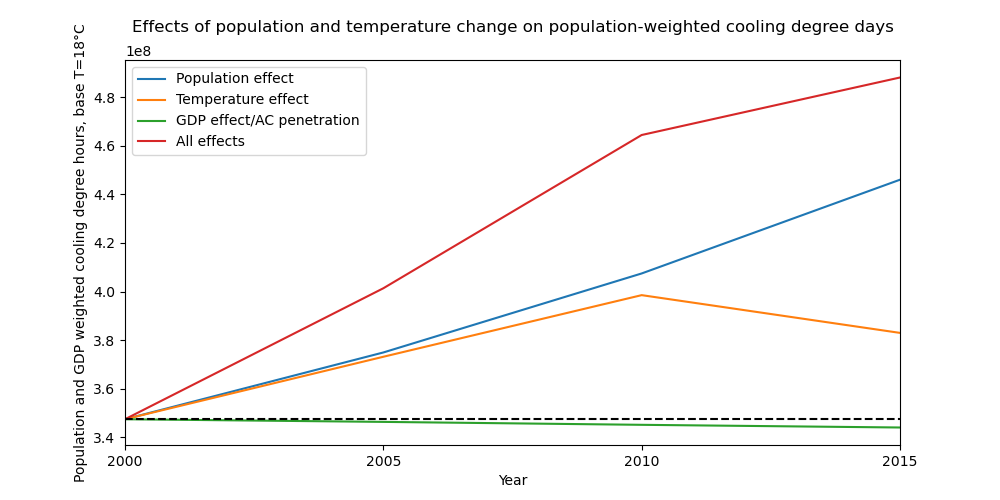
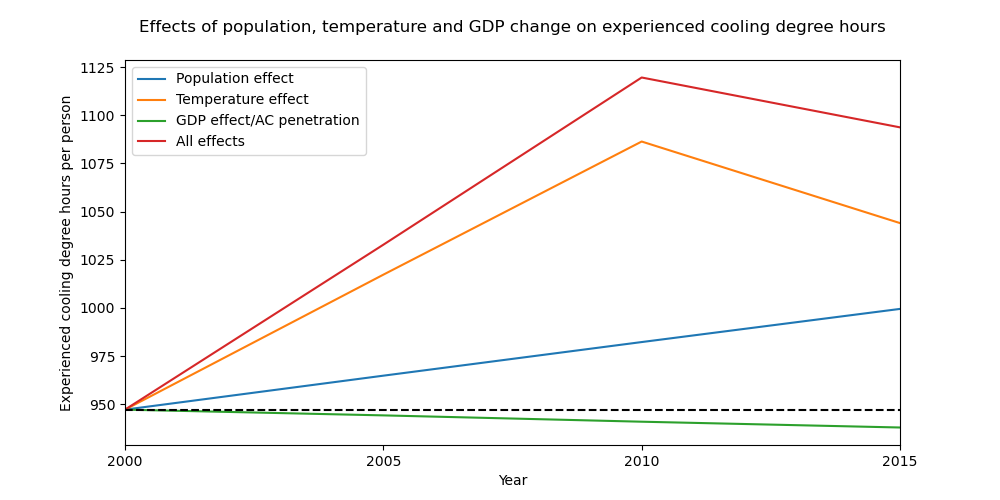
per person average

diff --git a/historicalT.py b/historicalT.py
@@ -201,7 +201,8 @@ def main():
                     weighted_cdd = yearly_degree_time * pop_data_year * exposure_factor
       
                     # Compute global average and store in dictionary    
-                    global_average = weighted_cdd.mean(dim=['latitude', 'longitude'], skipna=True)
+                    # global_average = weighted_cdd.mean(dim=['latitude', 'longitude'], skipna=True)
+                    global_average = weighted_cdd.sum(dim=['latitude', 'longitude'], skipna=True) / pop_data_year.sum(dim=['latitude', 'longitude'], skipna=True)
                     deg_time_dict["pop{0}_temp{1}_gdp{2}".format(pop_year, temp_year, gdp_year)] = global_average
 
                     # Plot the population weighted cooling degree time for 2015 for all effects separately

diff --git a/plotting.py b/plotting.py
@@ -68,10 +68,10 @@ def plot_time_curve(data_dict, plot_years):
     # x tick labels at plot_years
     ax.set_xticks(plot_years)
     ax.set_xlim([plot_years[0], plot_years[-1]])
-    ax.set_ylabel('Population and GDP weighted cooling degree hours, base T=18°C')
+    ax.set_ylabel('Experienced cooling degree hours per person')
     # Dashed horizontal line at reference year
     ax.axhline(data_dict["all_effects"]["pop2000_temp2000_gdp2000"], color='black', linestyle='--')
-    ax.set_title('Effects of population and temperature change on population-weighted cooling degree days', pad=20)
+    ax.set_title('Effects of population, temperature and GDP change on experienced cooling degree hours', pad=20)
 
     # Save the figure
     if not os.path.exists('Figures'):
